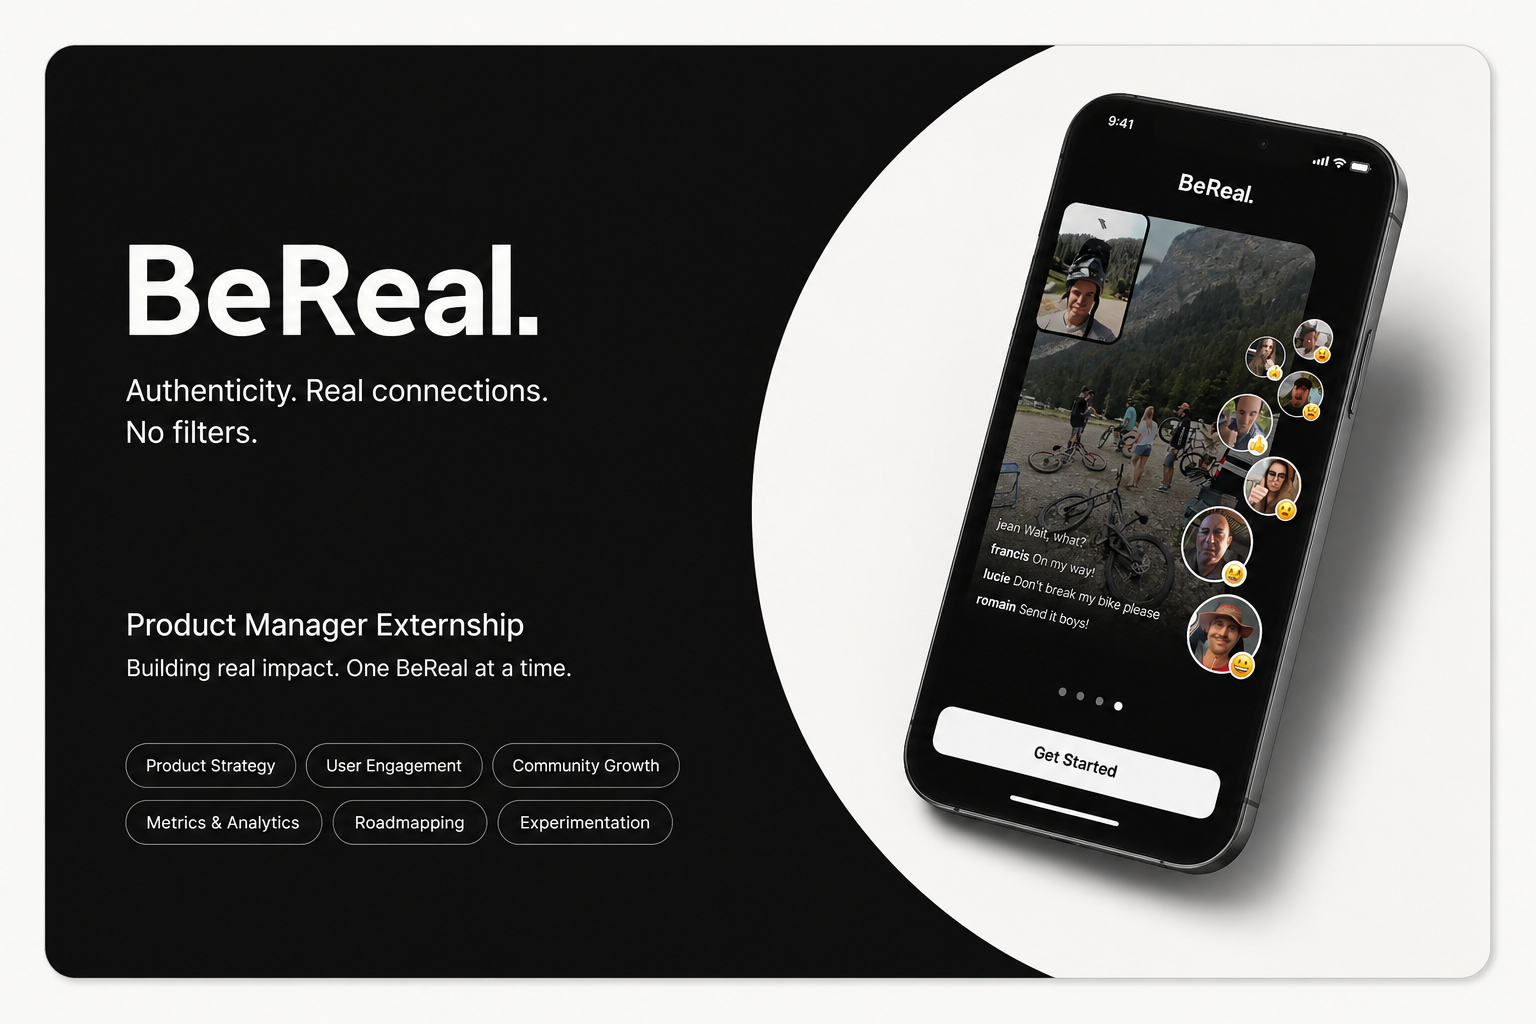
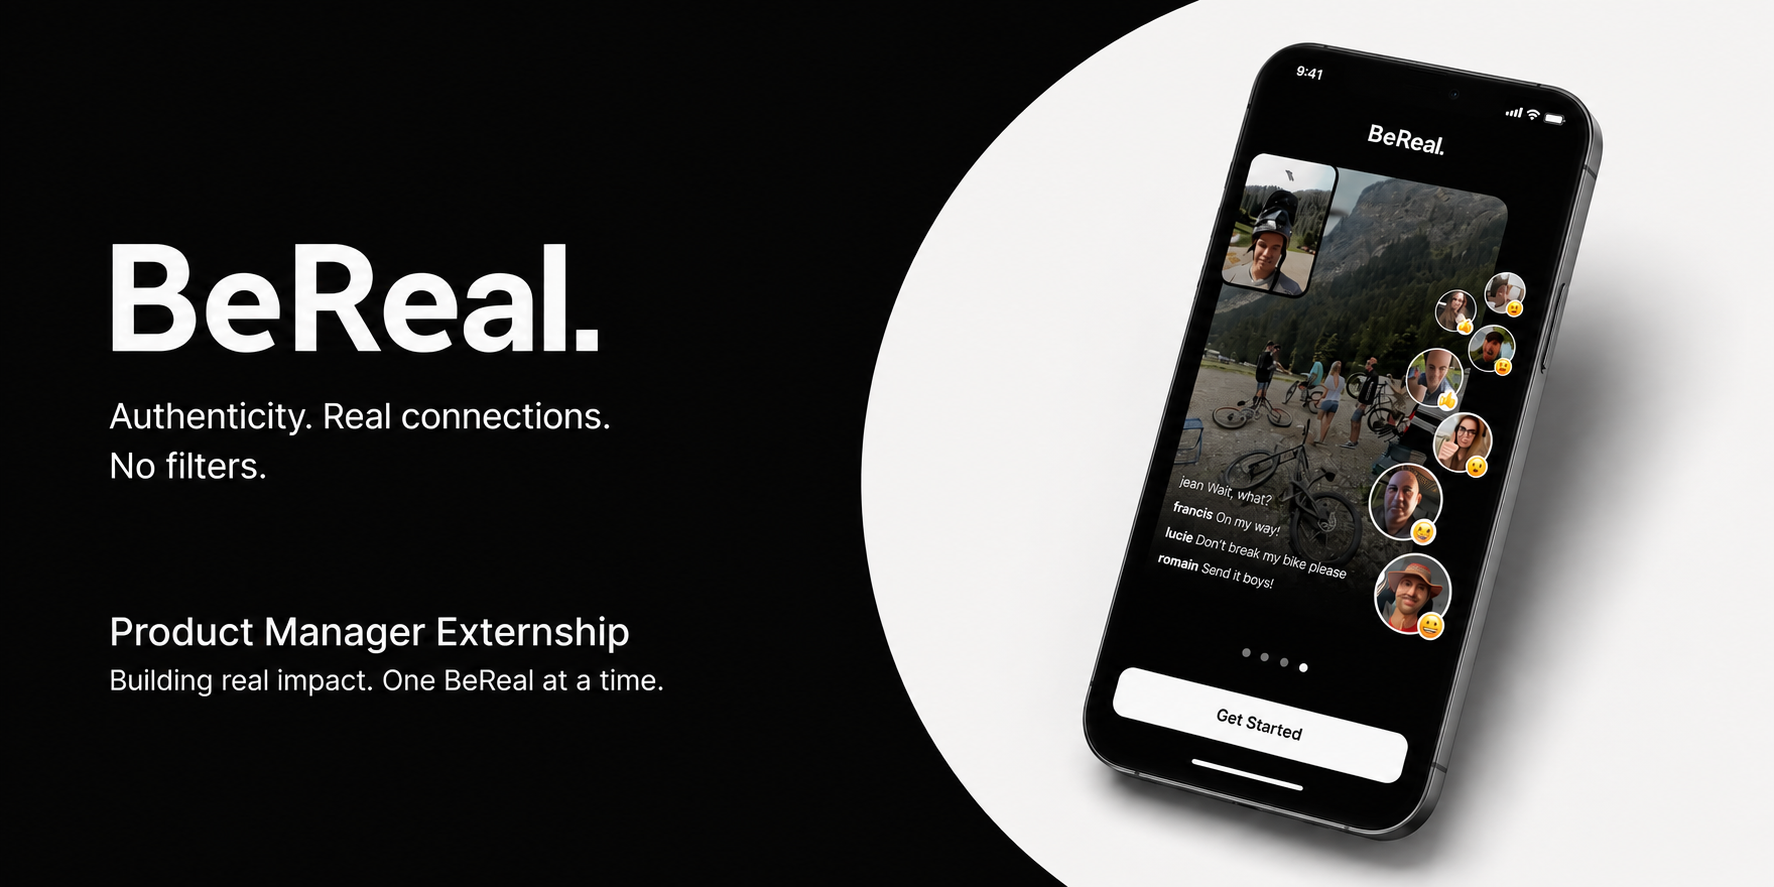
Update BeReal cover image and rewrite case study copy
Swaps in a wider cover image that crops less in the case-study hero,
and rewrites the usability testing section to drop the
simulated/fictional framing and em dashes for a more natural,
first-person voice.

diff --git a/index.html b/index.html
@@ -981,7 +981,7 @@
       year: "2026",
       color: "var(--paper-2)",
       image: "assets/bereal-cover.png",
-      desc: "Competitive analysis, a prioritized feature bet, and a tested prototype for BeReal — from problem framing to a pitch-ready recommendation.",
+      desc: "Competitive analysis, a prioritized feature bet, and a tested prototype for BeReal, from problem framing to a pitch-ready recommendation.",
       tags: ["Product Strategy", "User Research", "Prioritization (RICE)", "PRD", "Usability Testing", "BeReal", "Locket"],
       role: "Product Manager",
       timeline: "Externship",
@@ -1074,10 +1074,10 @@
             <div class="cs-table-wrap">
               <table class="cs-table">
                 <tr><th>Round</th><th>Date</th><th>Amount</th><th>Valuation</th></tr>
-                <tr><td>Seed</td><td>2020</td><td>Undisclosed (Kima Ventures, New Wave)</td><td>—</td></tr>
+                <tr><td>Seed</td><td>2020</td><td>Undisclosed (Kima Ventures, New Wave)</td><td>N/A</td></tr>
                 <tr><td>Series A</td><td>Jun 2021</td><td>$30M (a16z, Accel, DST Global)</td><td>~$150M</td></tr>
                 <tr><td>Series B</td><td>Oct 2022</td><td>$60M (DST Global)</td><td>~$600M</td></tr>
-                <tr><td>Acquisition</td><td>Jun 2024</td><td>€500M (~$537M) by Voodoo</td><td>—</td></tr>
+                <tr><td>Acquisition</td><td>Jun 2024</td><td>€500M (~$537M) by Voodoo</td><td>N/A</td></tr>
               </table>
             </div>
             <p class="overlay-p">Free to use with zero early monetization; growth-first under VC funding. Under Voodoo (2024+), BeReal launched a US ad platform: in-feed ads in the dual-camera format, full-day brand takeovers, and a RealBrands partnership program (Nike, Netflix, Amazon, Levi's). Revenue grew from $0 to over $30M by end of 2025.</p>
@@ -1111,11 +1111,11 @@
           title: "The 5 stages of using BeReal",
           body: `
             <ul class="cs-list">
-              <li><strong>Discovery</strong> — downloading the app, signing up, and going through onboarding for the first time.</li>
-              <li><strong>Prompt</strong> — receiving the random daily notification, feeling the 2-minute urgency, and deciding whether to open and post.</li>
-              <li><strong>Capture</strong> — opening the dual camera, taking the simultaneous front/back photo with no filters, and publishing on time or late.</li>
-              <li><strong>Connect</strong> — viewing friends' now-unlocked posts, reacting with RealMojis, commenting, and browsing Discovery.</li>
-              <li><strong>Exit &amp; Return</strong> — closing the app with nothing left to do until tomorrow, waiting for the next notification to restart the cycle.</li>
+              <li><strong>Discovery:</strong> downloading the app, signing up, and going through onboarding for the first time.</li>
+              <li><strong>Prompt:</strong> receiving the random daily notification, feeling the 2-minute urgency, and deciding whether to open and post.</li>
+              <li><strong>Capture:</strong> opening the dual camera, taking the simultaneous front/back photo with no filters, and publishing on time or late.</li>
+              <li><strong>Connect:</strong> viewing friends' now-unlocked posts, reacting with RealMojis, commenting, and browsing Discovery.</li>
+              <li><strong>Exit &amp; Return:</strong> closing the app with nothing left to do until tomorrow, waiting for the next notification to restart the cycle.</li>
             </ul>
           `
         },
@@ -1152,29 +1152,29 @@
                 <tr><td>Raw Receipt</td><td>8</td><td>1</td><td>0.6</td><td>3</td><td>1.6</td></tr>
               </table>
             </div>
-            <p class="overlay-p"><strong>Chosen:</strong> Friend Spotlight — rotates one friend to the top of the feed each day using existing friend-graph data, no new data collection required. It tied Living Journal at 10.8 and won the tiebreaker for stronger alignment with BeReal's core social mechanic: real friendship over more content.</p>
+            <p class="overlay-p"><strong>Chosen:</strong> Friend Spotlight, which rotates one friend to the top of the feed each day using existing friend-graph data, no new data collection required. It tied Living Journal at 10.8 and won the tiebreaker for stronger alignment with BeReal's core social mechanic: real friendship over more content.</p>
           `
         },
         {
           eyebrow: "10 / product definition",
-          title: "Friend Spotlight — PRD-Lite",
+          title: "Friend Spotlight: PRD-Lite",
           body: `
-            <p class="overlay-p"><strong>Problem:</strong> Once users post their daily BeReal, they have little reason to reopen the app — engagement drops off sharply after the initial post-and-scroll, even though friends' feeds keep updating throughout the day.</p>
+            <p class="overlay-p"><strong>Problem:</strong> Once users post their daily BeReal, they have little reason to reopen the app. Engagement drops off sharply after the initial post-and-scroll, even though friends' feeds keep updating throughout the day.</p>
             <p class="overlay-p"><strong>Target user:</strong> Existing BeReal users with an established friend group (5+ friends) who already post regularly but check the app infrequently outside their own posting window.</p>
             <p class="overlay-p"><strong>MAU success metrics</strong></p>
             <ul class="cs-list">
               <li><strong>Primary:</strong> increase in average daily app opens per user (target +10–15%)</li>
               <li><strong>Secondary:</strong> % of users who tap into a Spotlighted friend's profile/post; retention rate of users exposed to Spotlight vs. control group</li>
             </ul>
-            <p class="overlay-p"><strong>Non-goals:</strong> no ranking or "best friend" mechanic — rotation stays private and non-competitive; no chat, DMs, or new messaging surface; no ML/personalization in v1, simple rotation logic only.</p>
+            <p class="overlay-p"><strong>Non-goals:</strong> no ranking or "best friend" mechanic, rotation stays private and non-competitive. No chat, DMs, or new messaging surface. No ML or personalization in v1, simple rotation logic only.</p>
             <p class="overlay-p"><strong>Acceptance criteria</strong></p>
             <ul class="cs-list">
               <li>One friend is visibly spotlighted at the top of the feed once per day, refreshing every 24 hours.</li>
               <li>Rotation logic ensures no friend repeats as Spotlight more than once per cycle.</li>
               <li>Feature can be disabled anytime from Settings, reverting to the default feed.</li>
-              <li>Microcopy stays minimal and casual ("Today's Spotlight: [Name]") — no gamified language like "streak," "winner," or "top friend."</li>
+              <li>Microcopy stays minimal and casual ("Today's Spotlight: [Name]"), with no gamified language like "streak," "winner," or "top friend."</li>
             </ul>
-            <p class="overlay-p"><strong>Guardrail:</strong> Spotlight doesn't rank or curate friendships — it rotates, it doesn't rate. The feature stays quiet: one visual highlight, no push notification required, no extra taps to dismiss.</p>
+            <p class="overlay-p"><strong>Guardrail:</strong> Spotlight doesn't rank or curate friendships. It rotates, it doesn't rate. The feature stays quiet: one visual highlight, no push notification required, no extra taps to dismiss.</p>
           `
         },
         {
@@ -1188,20 +1188,20 @@
         },
         {
           eyebrow: "12 / usability testing",
-          title: "Testing with a simulated focus group",
+          title: "Testing with a focus group",
           body: `
-            <p class="overlay-p">Seven fictional English-speaking participants (Japanese and Vietnamese backgrounds, ages 20–25, mixing daily, occasional, and rarely-active BeReal users) each completed an 18–20 minute simulated session: two warm-up questions, a think-aloud walkthrough of the prototype, four discussion questions, two wrap-up questions, and a seven-question survey. Every quote, participant, and result below is simulated research, not live user data.</p>
+            <p class="overlay-p">I ran a focus group with seven English-speaking participants (Japanese and Vietnamese backgrounds, ages 20 to 25, a mix of daily, occasional, and rarely-active BeReal users). Each 18 to 20 minute session included two warm-up questions, a think-aloud walkthrough of the prototype, four discussion questions, two wrap-up questions, and a seven-question survey.</p>
             <div class="cs-metric-grid">
               <div class="cs-metric"><span class="num">4.7 / 5</span><span class="label">understanding</span></div>
               <div class="cs-metric"><span class="num">4.6 / 5</span><span class="label">authenticity</span></div>
               <div class="cs-metric"><span class="num">3.9 / 5</span><span class="label">likely to use</span></div>
               <div class="cs-metric"><span class="num">86%</span><span class="label">would recommend</span></div>
             </div>
-            <p class="overlay-p"><strong>1. The one-friend limit felt personal and authentic.</strong> Participants consistently described the concept as simple, calm, and focused on real friendships — they liked that Spotlight ended after one post instead of leading into an endless feed.</p>
+            <p class="overlay-p"><strong>1. The one-friend limit felt personal and authentic.</strong> Participants consistently described the concept as simple, calm, and focused on real friendships. They liked that Spotlight ended after one post instead of leading into an endless feed.</p>
             <blockquote class="quote-block"><p>"It creates a reason to revisit the app that is about friendship, not more content."</p></blockquote>
             <div class="quote-attr">Khoa, uses BeReal 3–4 times per week</div>
             <p class="overlay-p"><strong>2. Selection logic was the clearest usability gap.</strong> Five of seven participants asked whether the friend was selected randomly or by an algorithm, and wanted a short reason label like "Random friend today."</p>
-            <p class="overlay-p"><strong>3. Streak-like language created unnecessary pressure.</strong> The "three spotlights in a row" messaging reminded multiple participants of Snapchat streaks — they preferred softer language like "Days Connected."</p>
+            <p class="overlay-p"><strong>3. Streak-like language created unnecessary pressure.</strong> The "three spotlights in a row" messaging reminded multiple participants of Snapchat streaks. They preferred softer language like "Days Connected."</p>
             <blockquote class="quote-block"><p>"It feels lighter than Snapchat streaks because there is no pressure to send anything."</p></blockquote>
             <div class="quote-attr">Linh, daily BeReal user</div>
             <p class="overlay-p"><strong>4. It could increase return visits, but not for everyone.</strong> Active and semi-active users saw a natural reason to return when their spotlighted friend posted later; the rarely-active participant liked the concept's authenticity but said it wouldn't solve the reason he'd stopped opening BeReal.</p>
@@ -1213,7 +1213,7 @@
           eyebrow: "13 / decision",
           title: "Recommendation: refine, then retest",
           body: `
-            <p class="overlay-p">Friend Spotlight moves forward to another prototype round — users understood the core idea, rated it highly for authenticity, and saw value in its one-friend focus. The interaction needs refinement before a larger test so it stays transparent, optional, and low-pressure.</p>
+            <p class="overlay-p">Friend Spotlight moves forward to another prototype round. Users understood the core idea, rated it highly for authenticity, and saw value in its one-friend focus. The interaction needs refinement before a larger test so it stays transparent, optional, and low-pressure.</p>
             <ul class="cs-list">
               <li><strong>Explain selection:</strong> add a short reason beneath the highlighted friend's name.</li>
               <li><strong>Soften progress:</strong> replace the consecutive-day message with "Days Connected," or test removing progress entirely.</li>
@@ -1221,7 +1221,7 @@
               <li><strong>Preserve control:</strong> keep the onboarding choice, Settings toggle, and an option to exclude specific friends.</li>
               <li><strong>Retest behavior:</strong> run the revised prototype with a larger mix of daily, occasional, and lapsed users.</li>
             </ul>
-            <p class="overlay-p">Friend Spotlight's strongest value isn't the progress mechanic — it's the small moment of attention it gives to one real friend. With clearer selection logic, softer language, and flexible controls, the concept is ready to be retested before considering rollout.</p>
+            <p class="overlay-p">Friend Spotlight's strongest value isn't the progress mechanic. It's the small moment of attention it gives to one real friend. With clearer selection logic, softer language, and flexible controls, the concept is ready to be retested before considering rollout.</p>
             <blockquote class="quote-block"><p>"One real friend. One reason to return. No endless feed."</p></blockquote>
             <div class="quote-attr">pitch takeaway</div>
           `
